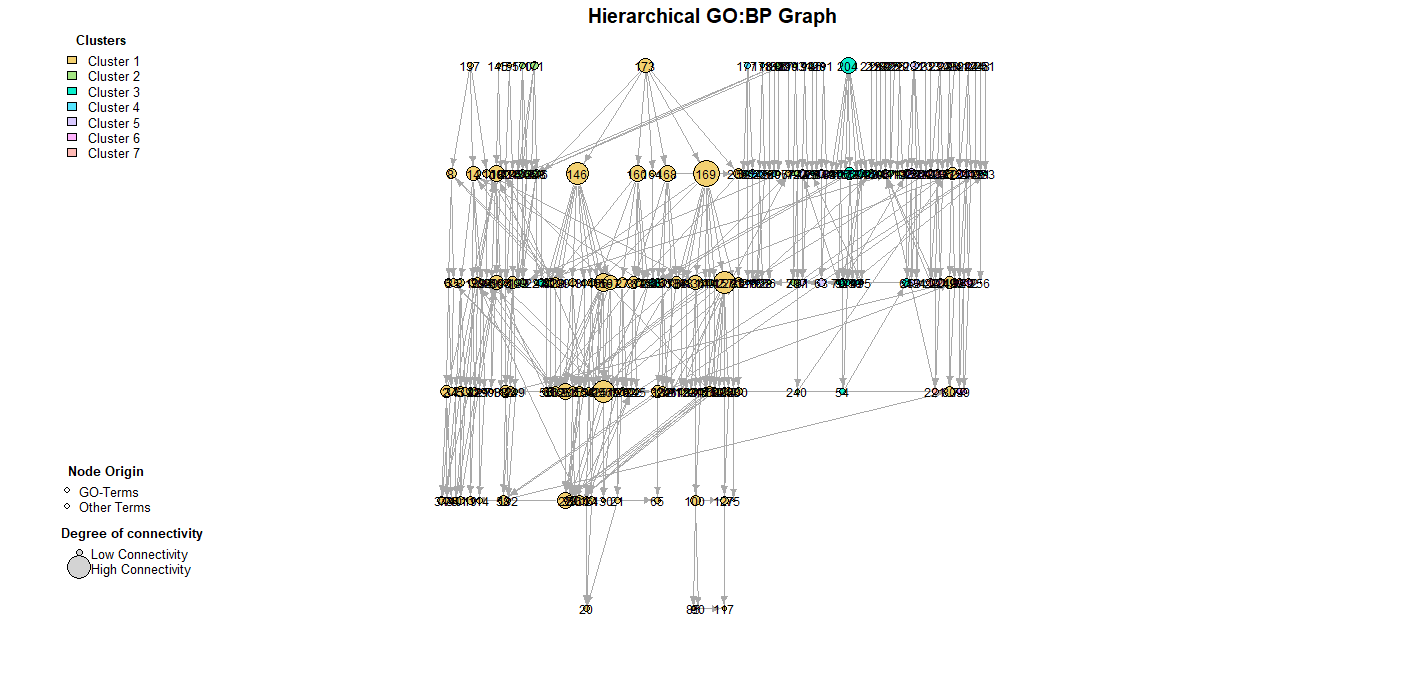
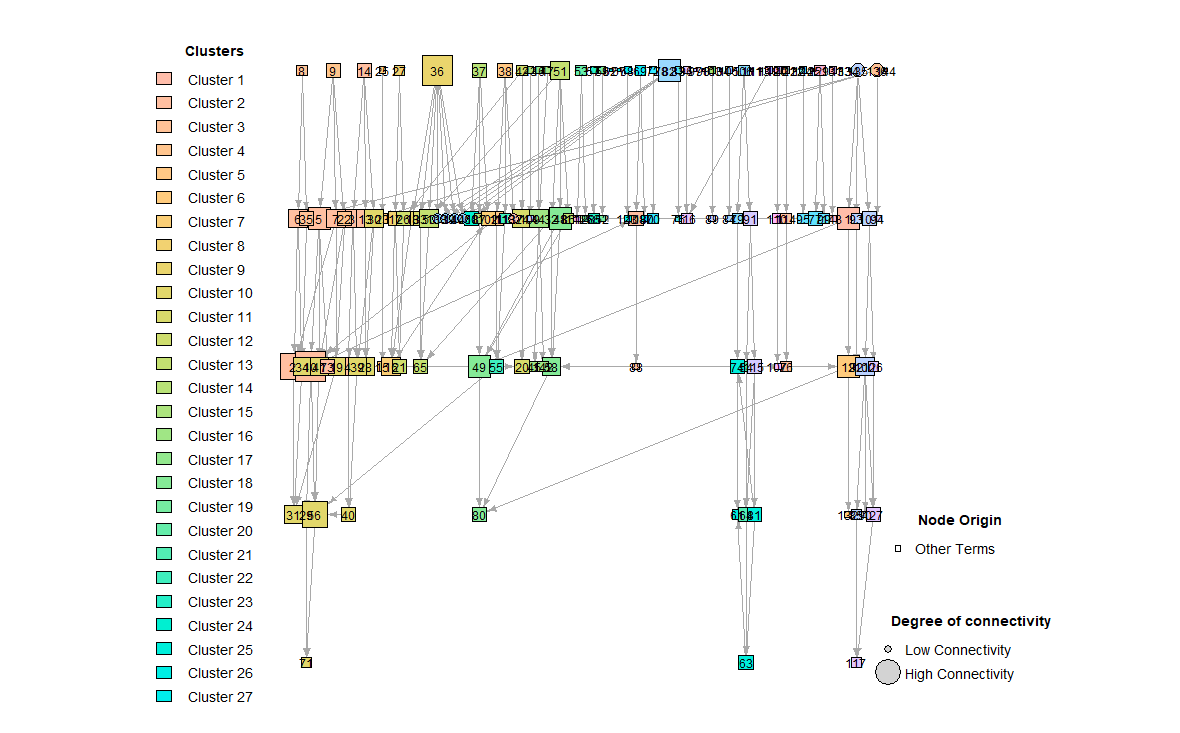
Updating the README.md file

diff --git a/README.md b/README.md
@@ -324,34 +324,35 @@ The last step is to represent the relationships between the GO-terms of interest
 8.  We can save this plot directly from the function with `save_plot = T`.
 
 ``` r
-visualizeGO()
+visualizeGO(cluster = cluster,
+shape1 = "square", min_node_size = 1, max_node_size = 10, 
+layout = "tree", col_palette = colors, verbose = "some",
+legend = T, ID = F)
 ```
 
 ![Hierarchical plot of the GO-terms relationships.](inst/images/plot1.png) As
 can be seen in the image, there are many nodes and inter-nodal relationships,
-making the plot uninformative. Thus, we can focus on just one of the clusters
+making the plot uninformative. Thus, we can focus on some of the clusters
 to see what these relationships look like. This list of GO-terms is the result
 of a functional enrichment analysis of differentially expressed genes obtained
 from transcriptome analysis of adipose tissue from suckling lambs
 [(Alonso-García et al., 2023)](https://doi.org/10.3389/fvets.2023.1150996).
-Thus, we are going to focus on **Cluster 5** which is related to lipid metabolism.
+Thus, we are going to focus on **Clusters 1, 18, 19 & 20** which are related
+to lipid metabolism.
 
 ``` r
 visualizeGO(cluster = cluster, selected_cluster = c(1,18,19,20), 
-ontology = "BP", shape1 = "square", min_node_size = 2.5, max_node_size = 10, 
-layout = "tree", col_palette = colors[c(1,18,19,20)], title = "Fatty acid related clusters",
-verbose = "some", legend = T, ID = T, labs = "Alonso-García et al. (2023)")
+shape1 = "square", min_node_size = 2.5, max_node_size = 10, 
+layout = "tree", col_palette = colors[c(1,18,19,20)], 
+title = "Fatty acid related clusters",
+verbose = "some", legend = T, ID = T,
+labs = "Alonso-García et al. (2023)")
 ```
 
-![Cluster 5](inst/images/plot2.png) This function, in addition to filtering the above graph according to the clusters we want, also gives us a table with the GO IDs relationship and the term description.
-
-![](inst/images/cluster5.png)
-
-It is observed that within this cluster, the metabolic pathways that compose the cluster all are related to lipid transport.
-
-This function also allows you to select several clusters and visualize them in the same plot.
-
-![Six and seven](inst/images/plot3.png) For example, in this case, we selected **Clusters 6** and **7** which are related to the immune system.
+![](inst/images/plot2.png) This function, in addition to filtering
+the above graph according to the clusters we want, also gives us a table
+with the GO IDs relationship and the term description that we can save as
+a PNG.
 
 ### Comparing lists of GO-terms
 
